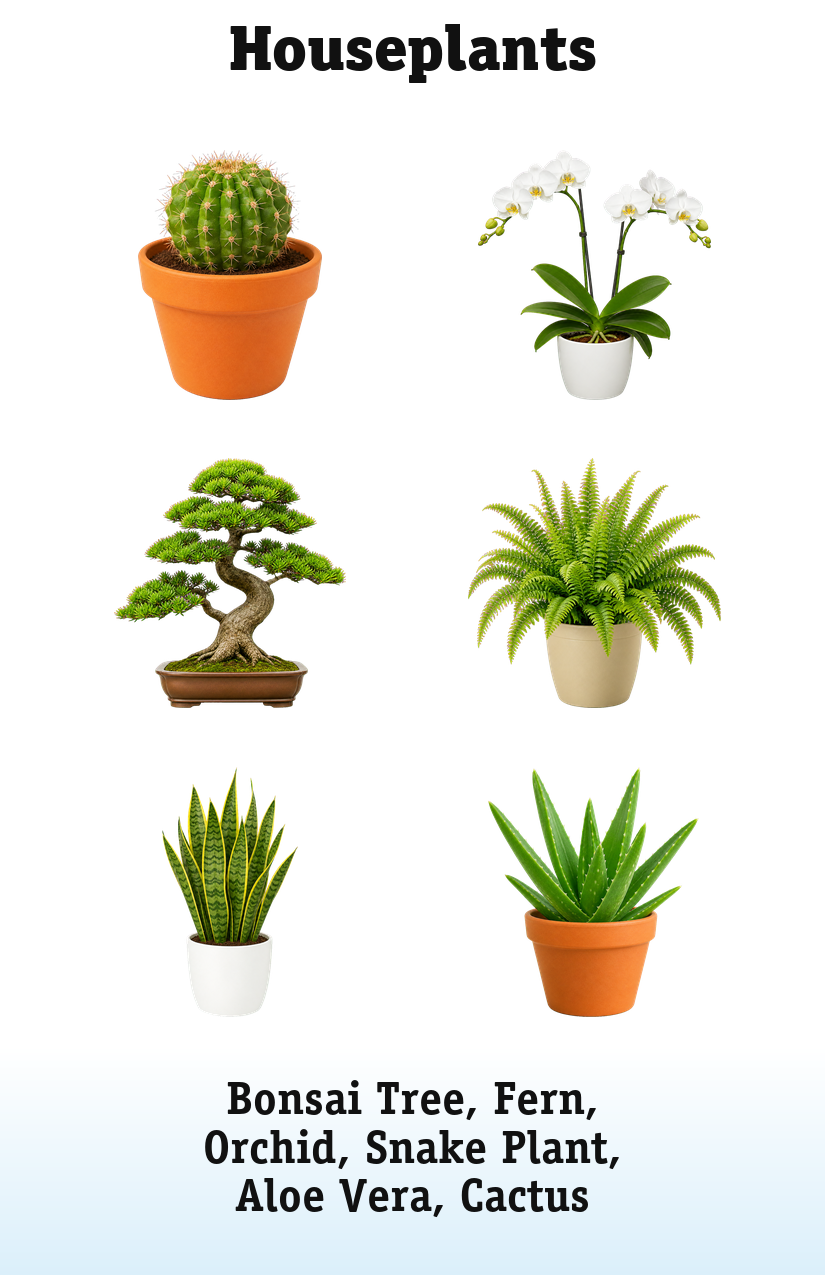
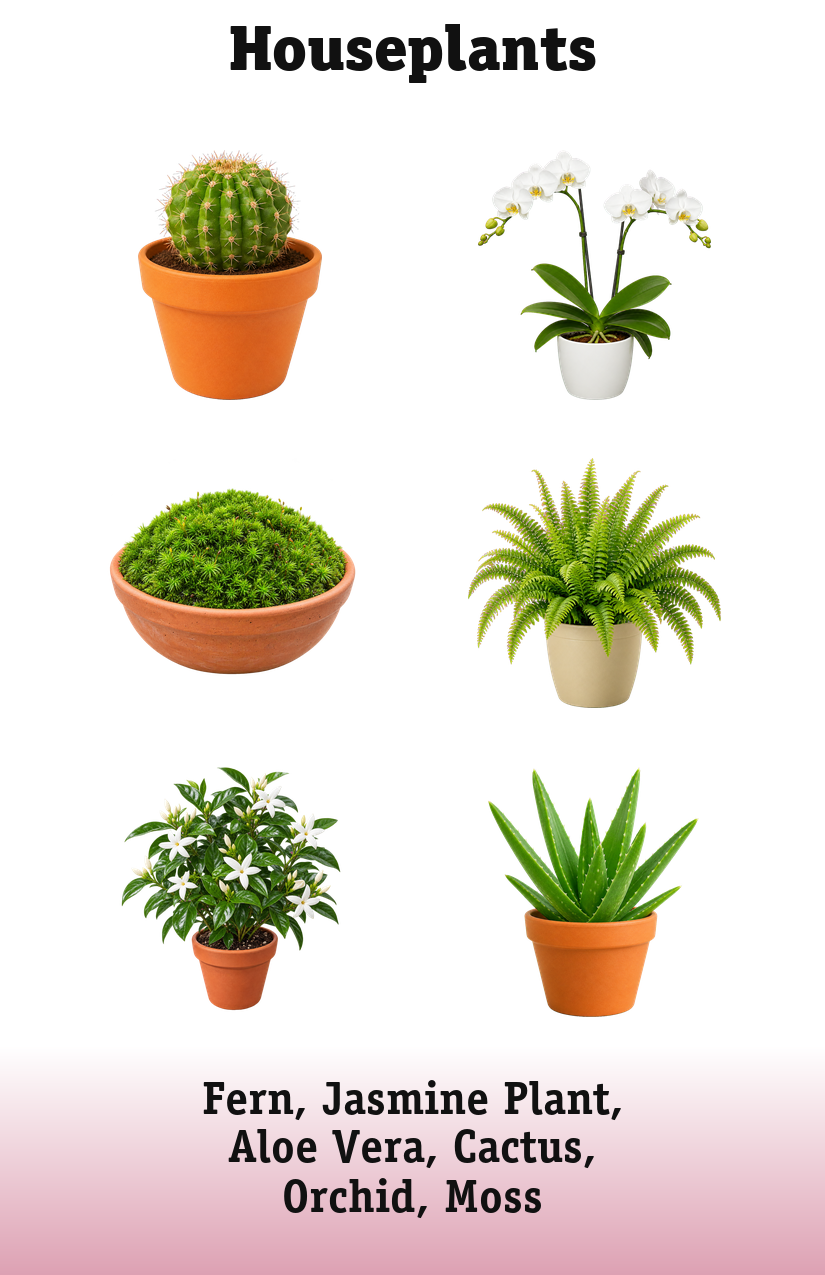
Rebuild Houseplants and tighten legacy links

Changed region(s): [[0.0, 0.8259, 1.0, 1.0], [0.1212, 0.3365, 0.4545, 0.5812], [0.1515, 0.5812, 0.4242, 0.7953]]

diff --git a/picture-this/link-data.js b/picture-this/link-data.js
@@ -49,7 +49,7 @@ window.PICTURE_THIS_LINK_DATA = {
   ],
   "musical-instruments": [
     pictureThisLink("strings", [0,3], "The guitar and violin are the only two string instruments shown.", ["stringed"]),
-    pictureThisLink("brass", [2,5], "The trumpet and saxophone are the only two brass-family instruments shown.", ["brassy"]),
+    pictureThisLink("wind", [2,5], "The trumpet and saxophone are the only two wind instruments shown whose sound begins with the player's breath.", ["blown"]),
     pictureThisLink("keys", [4,5], "The piano and saxophone are the only two instruments shown played with keys.", ["keyed"])
   ],
   "market": [pictureThisLink("produce", [0,3], "Fruit and vegetables are the only two fresh-produce groups shown.")],
@@ -127,7 +127,7 @@ window.PICTURE_THIS_LINK_DATA = {
   ],
   "bathroom-fixtures": [],
   "money-and-banking": [],
-  "houseplants": [pictureThisLink("succulents", [0,5], "The cactus and aloe vera are the only two succulents shown.", ["succulent"])],
+  "houseplants": [],
   "at-the-dentist": [
     pictureThisLink("cleaning", [1,2], "The toothbrush and toothpaste are the only two items shown specifically paired for cleaning teeth.", ["clean"]),
     pictureThisLink("inspection", [0,4], "The dental chair and mouth mirror are the only two items shown directly joined during an oral inspection.", ["exam"]),
@@ -217,7 +217,7 @@ window.PICTURE_THIS_LINK_DATA = {
     pictureThisLink("storage", [4,5], "The coat hook and shoe rack are the only two entryway storage fixtures shown.", ["organizing"])
   ],
   "electrical-essentials": [
-    pictureThisLink("switching", [0,4], "The light switch and bulb are the only two items shown directly joined by switching a light on or off.", ["switch"]),
+    pictureThisLink("light", [0,4], "Light switch and light bulb are the only two items shown whose names and primary function are specifically about light.", ["lighting"]),
     pictureThisLink("wall", [0,1], "The light switch and wall outlet are the only two fixtures shown permanently mounted in a wall.")
   ],
   "personal-care": [
@@ -303,7 +303,7 @@ const auditedLinkAdditions = {
     pictureThisLink("burrowers", [0,4], "Ant and worm are the only two bugs shown especially known for tunneling through soil.")
   ],
   "tools": [
-    pictureThisLink("cutting", [2,3], "Saw and tape measure are the only two tools shown that directly form a measure-before-cutting pair."),
+    pictureThisLink("teeth", [0,2], "Pliers and saw are the only two tools shown with rows of functional metal teeth."),
     pictureThisLink("driving", [1,4], "Hammer and screwdriver are the only two tools shown made to drive the two standard pictured fastener types: nails and screws.")
   ],
   "outdoor-places": [pictureThisLink("shorelines", [2,5], "Island and lake are the only two places shown whose defining boundary is a shoreline around water.")],
@@ -357,7 +357,7 @@ const auditedLinkAdditions = {
     pictureThisLink("absorbent", [1,3], "Mop and sponge are the only two absorbent cleaning tools shown.")
   ],
   "in-the-garden": [
-    pictureThisLink("blades", [1,4], "Trowel and shears are the only two small hand-operated garden tools shown."),
+    pictureThisLink("blades", [1,4], "The hand trowel and pruning shears are the only two garden tools shown that cut or dig with exposed metal blades."),
     pictureThisLink("potting", [1,3], "Trowel and flowerpot are the only two items shown directly joined by potting a plant.")
   ],
   "at-the-playground": [
@@ -423,10 +423,7 @@ const auditedLinkAdditions = {
     pictureThisLink("saving", [3,4], "Piggy bank and safe are the only two containers shown specifically designed to protect saved valuables."),
     pictureThisLink("withdrawal", [0,5], "Banknote and ATM are the only two items shown that form the cash-withdrawal output and machine pair.")
   ],
-  "houseplants": [
-    pictureThisLink("blades", [4,5], "Snake plant and aloe are the only two plants shown with thick upright strap-shaped leaves."),
-    pictureThisLink("tropical", [1,3], "Orchid and fern are the only two humid-forest tropical plants shown.")
-  ],
+  "houseplants": [],
   "fire-station": [
     pictureThisLink("dispatch", [0,5], "Fire engine and alarm bell are the only two items shown that form an emergency alert and response-vehicle pair."),
     pictureThisLink("handles", [3,4], "Extinguisher and fire axe are the only two handheld firefighting tools shown.")

diff --git a/picture-this/game-data.js b/picture-this/game-data.js
@@ -427,9 +427,9 @@ window.PICTURE_THIS_GAME_DATA = {
   "houseplants": [
     "Cactus",
     "Orchid",
-    "Bonsai Tree",
+    "Moss",
     "Fern",
-    "Snake Plant",
+    "Jasmine Plant",
     "Aloe Vera"
   ],
   "at-the-dentist": [
@@ -1406,6 +1406,75 @@ window.PICTURE_THIS_GAME_DATA = {
 window.PICTURE_THIS_GAME_META = {
   "schema_version": 1,
   "cards": {
+    "houseplants": {
+      "title": "Houseplants",
+      "category_answers": [
+        "Houseplants",
+        "Indoor Plants",
+        "Potted Plants",
+        "Plants at Home"
+      ],
+      "tags": [
+        "home",
+        "plants",
+        "nature"
+      ],
+      "items": [
+        {
+          "id": "cactus",
+          "label": "Cactus",
+          "answers": ["Cactus"]
+        },
+        {
+          "id": "orchid",
+          "label": "Orchid",
+          "answers": ["Orchid", "Orchid Plant"]
+        },
+        {
+          "id": "moss",
+          "label": "Moss",
+          "answers": ["Moss", "Moss Plant"]
+        },
+        {
+          "id": "fern",
+          "label": "Fern",
+          "answers": ["Fern", "Fern Plant"]
+        },
+        {
+          "id": "jasmine-plant",
+          "label": "Jasmine Plant",
+          "answers": ["Jasmine Plant", "Jasmine"]
+        },
+        {
+          "id": "aloe-vera",
+          "label": "Aloe Vera",
+          "answers": ["Aloe Vera", "Aloe"]
+        }
+      ],
+      "links": [
+        {
+          "word": "succulents",
+          "answers": ["succulents", "succulent"],
+          "items": ["cactus", "aloe-vera"],
+          "explanation": "Cactus and aloe vera are the only two succulent plants shown with thick water-storing tissue.",
+          "audit": "exclusive-among-six-v1"
+        },
+        {
+          "word": "spores",
+          "answers": ["spores", "spore"],
+          "items": ["moss", "fern"],
+          "explanation": "Moss and fern are the only two plants shown that reproduce with spores rather than flowers and seeds.",
+          "audit": "exclusive-among-six-v1"
+        },
+        {
+          "word": "fragrant",
+          "answers": ["fragrant"],
+          "items": ["orchid", "jasmine-plant"],
+          "explanation": "Orchid and jasmine plant are the only two houseplants shown especially grown for fragrant flowers.",
+          "audit": "exclusive-among-six-v1"
+        }
+      ]
+    },
     "board-games": {
       "title": "Tabletop Games",
       "category_answers": [

diff --git a/picture-this/question-data.js b/picture-this/question-data.js
@@ -2335,8 +2335,8 @@ window.PICTURE_THIS_QUESTION_DATA = {
   },
   "houseplants": {
     "questions": [
-      "Which plants have flowers, spines, or long leaves?",
-      "Which plant looks tallest? Which looks most compact?",
+      "Which plants have flowers, spines, spores, or thick leaves?",
+      "Which plant looks tallest? Which looks softest?",
       "What plants do you grow at home, school, or work?",
       "What do houseplants need in order to stay healthy?",
       "What other plants can people grow indoors?",
@@ -2352,27 +2352,27 @@ window.PICTURE_THIS_QUESTION_DATA = {
     ],
     "endpoints": [
       {
-        "x": 66.91,
-        "y": 16.63
+        "x": 87.03,
+        "y": 16.98
       },
       {
-        "x": 62.79,
-        "y": 27.33
+        "x": 46.42,
+        "y": 26.94
       },
       {
-        "x": 68.73,
-        "y": 37.33
+        "x": 69.09,
+        "y": 37.53
       },
       {
-        "x": 65.94,
+        "x": 66.3,
         "y": 48.04
       },
       {
-        "x": 46.79,
-        "y": 58.04
+        "x": 47.15,
+        "y": 58.39
       },
       {
-        "x": 72.73,
+        "x": 73.09,
         "y": 73.06
       }
     ]
